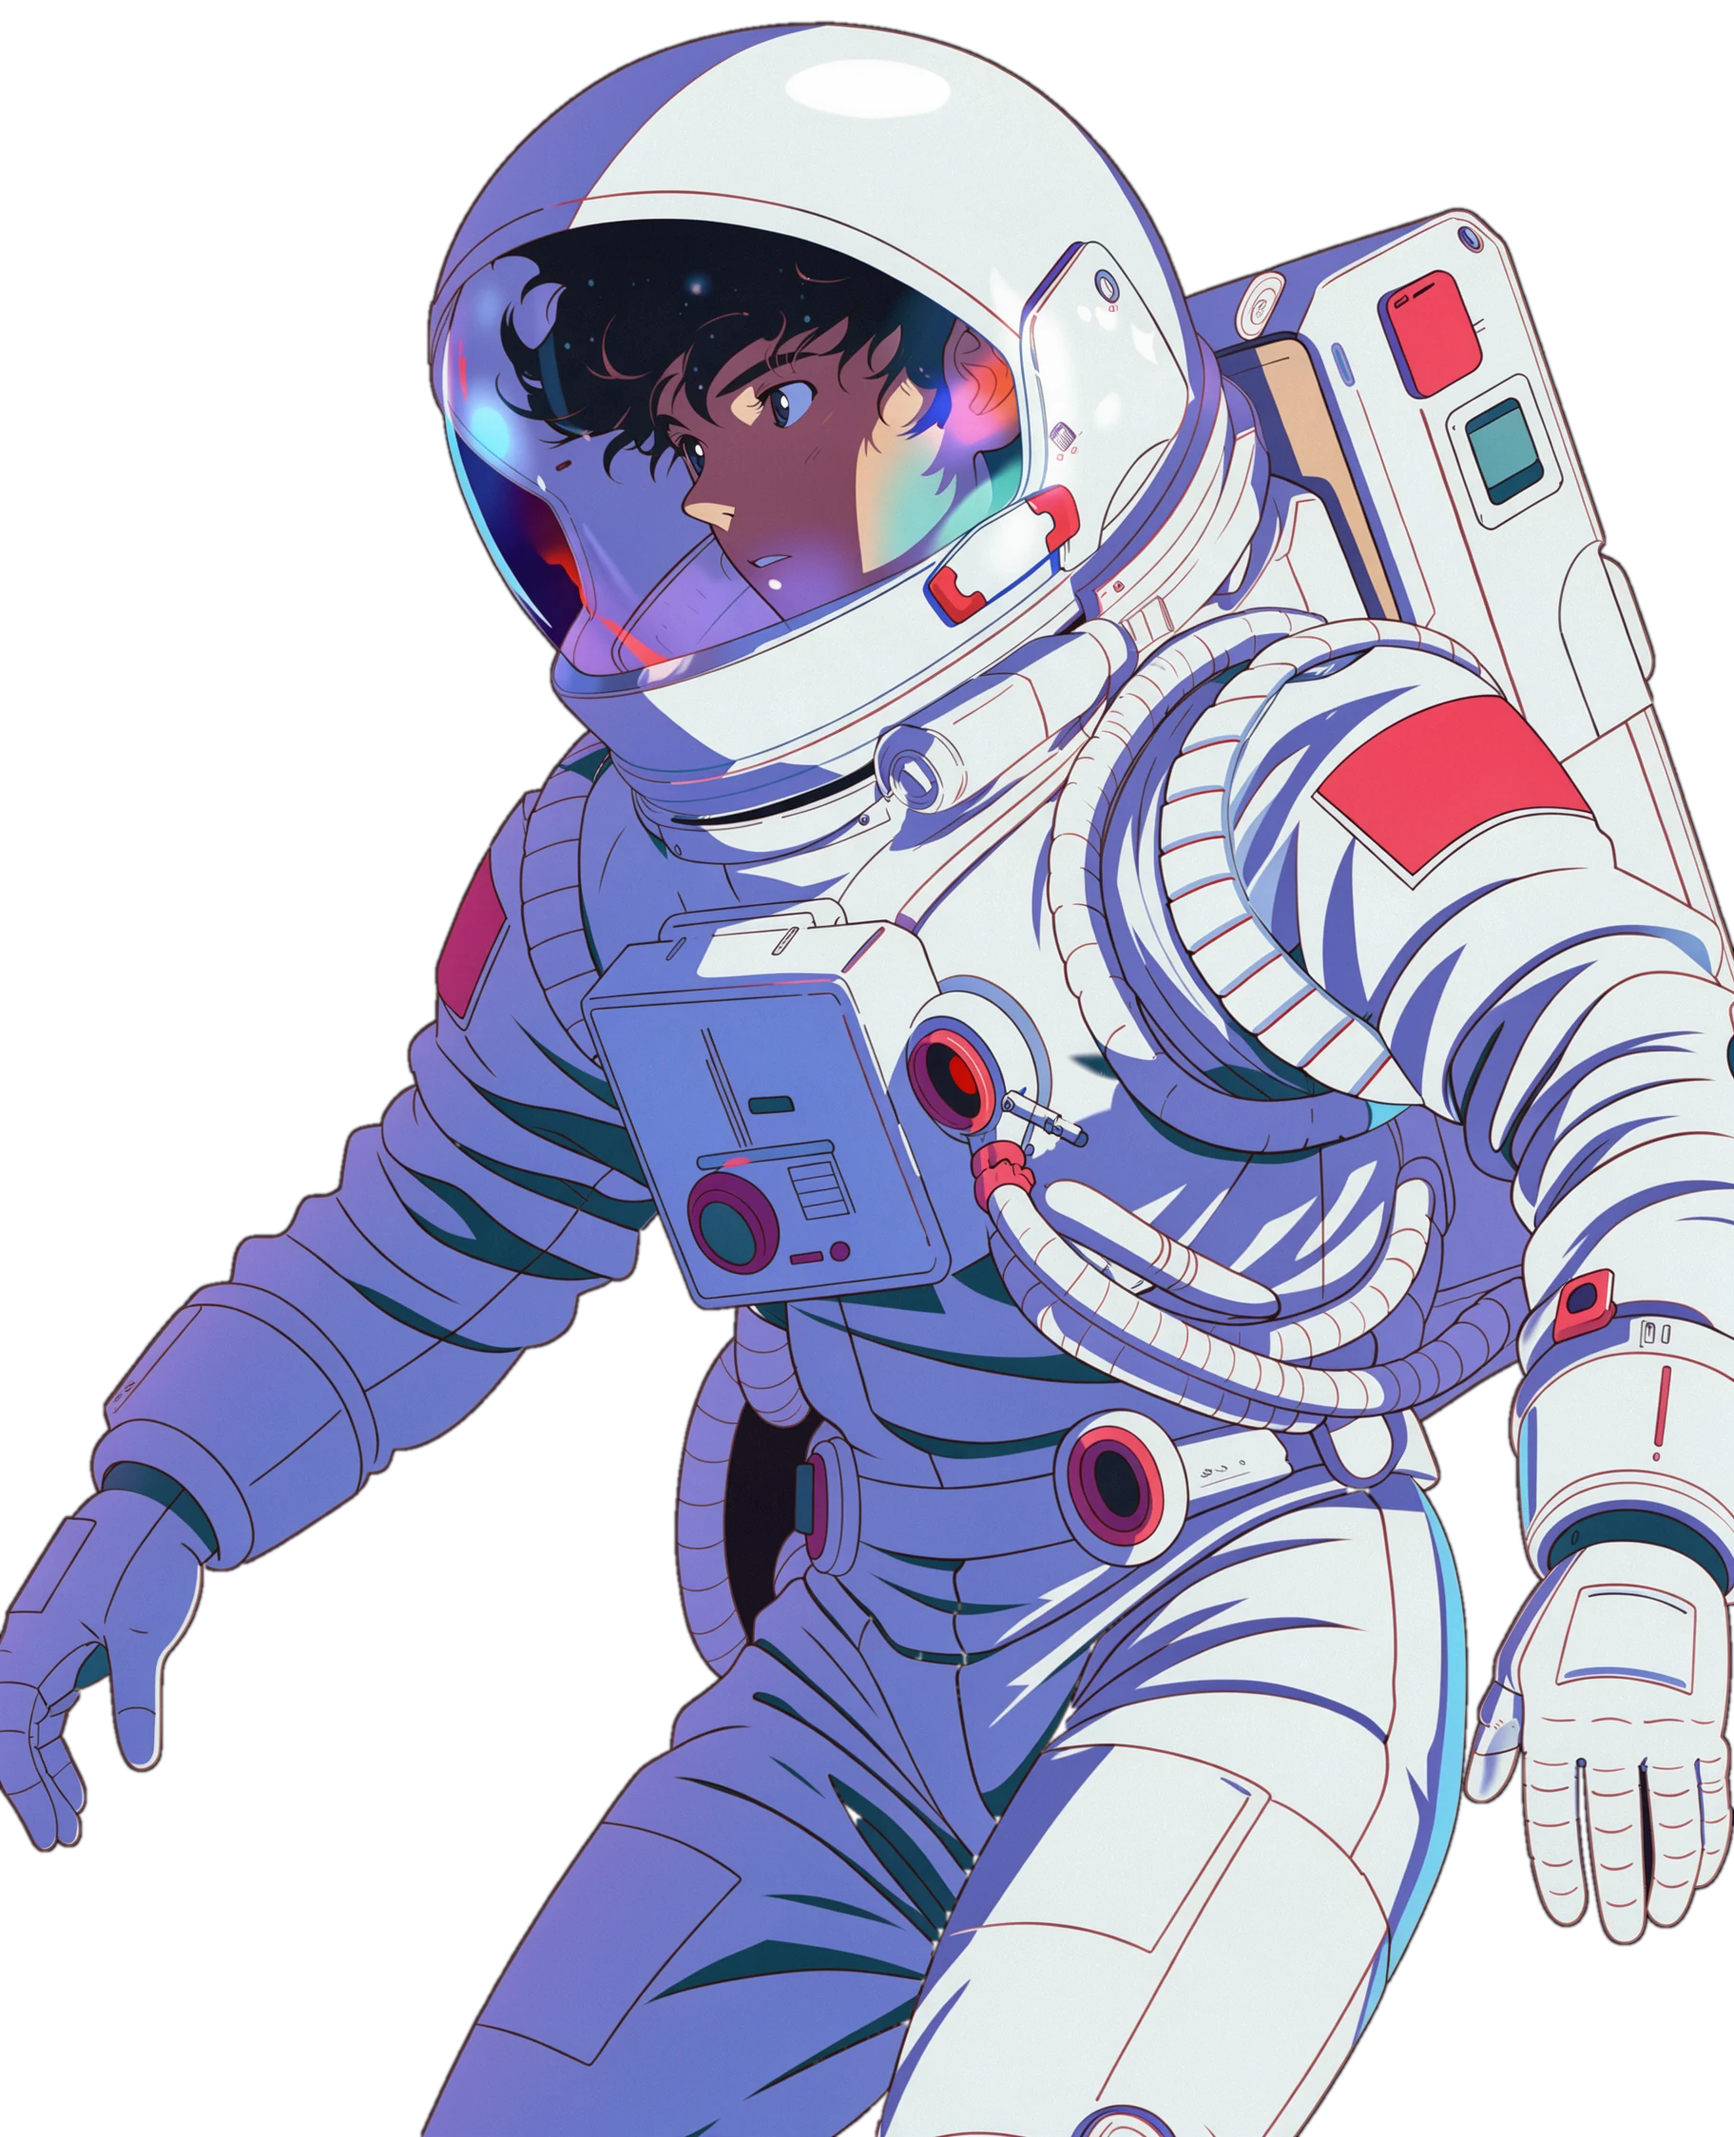
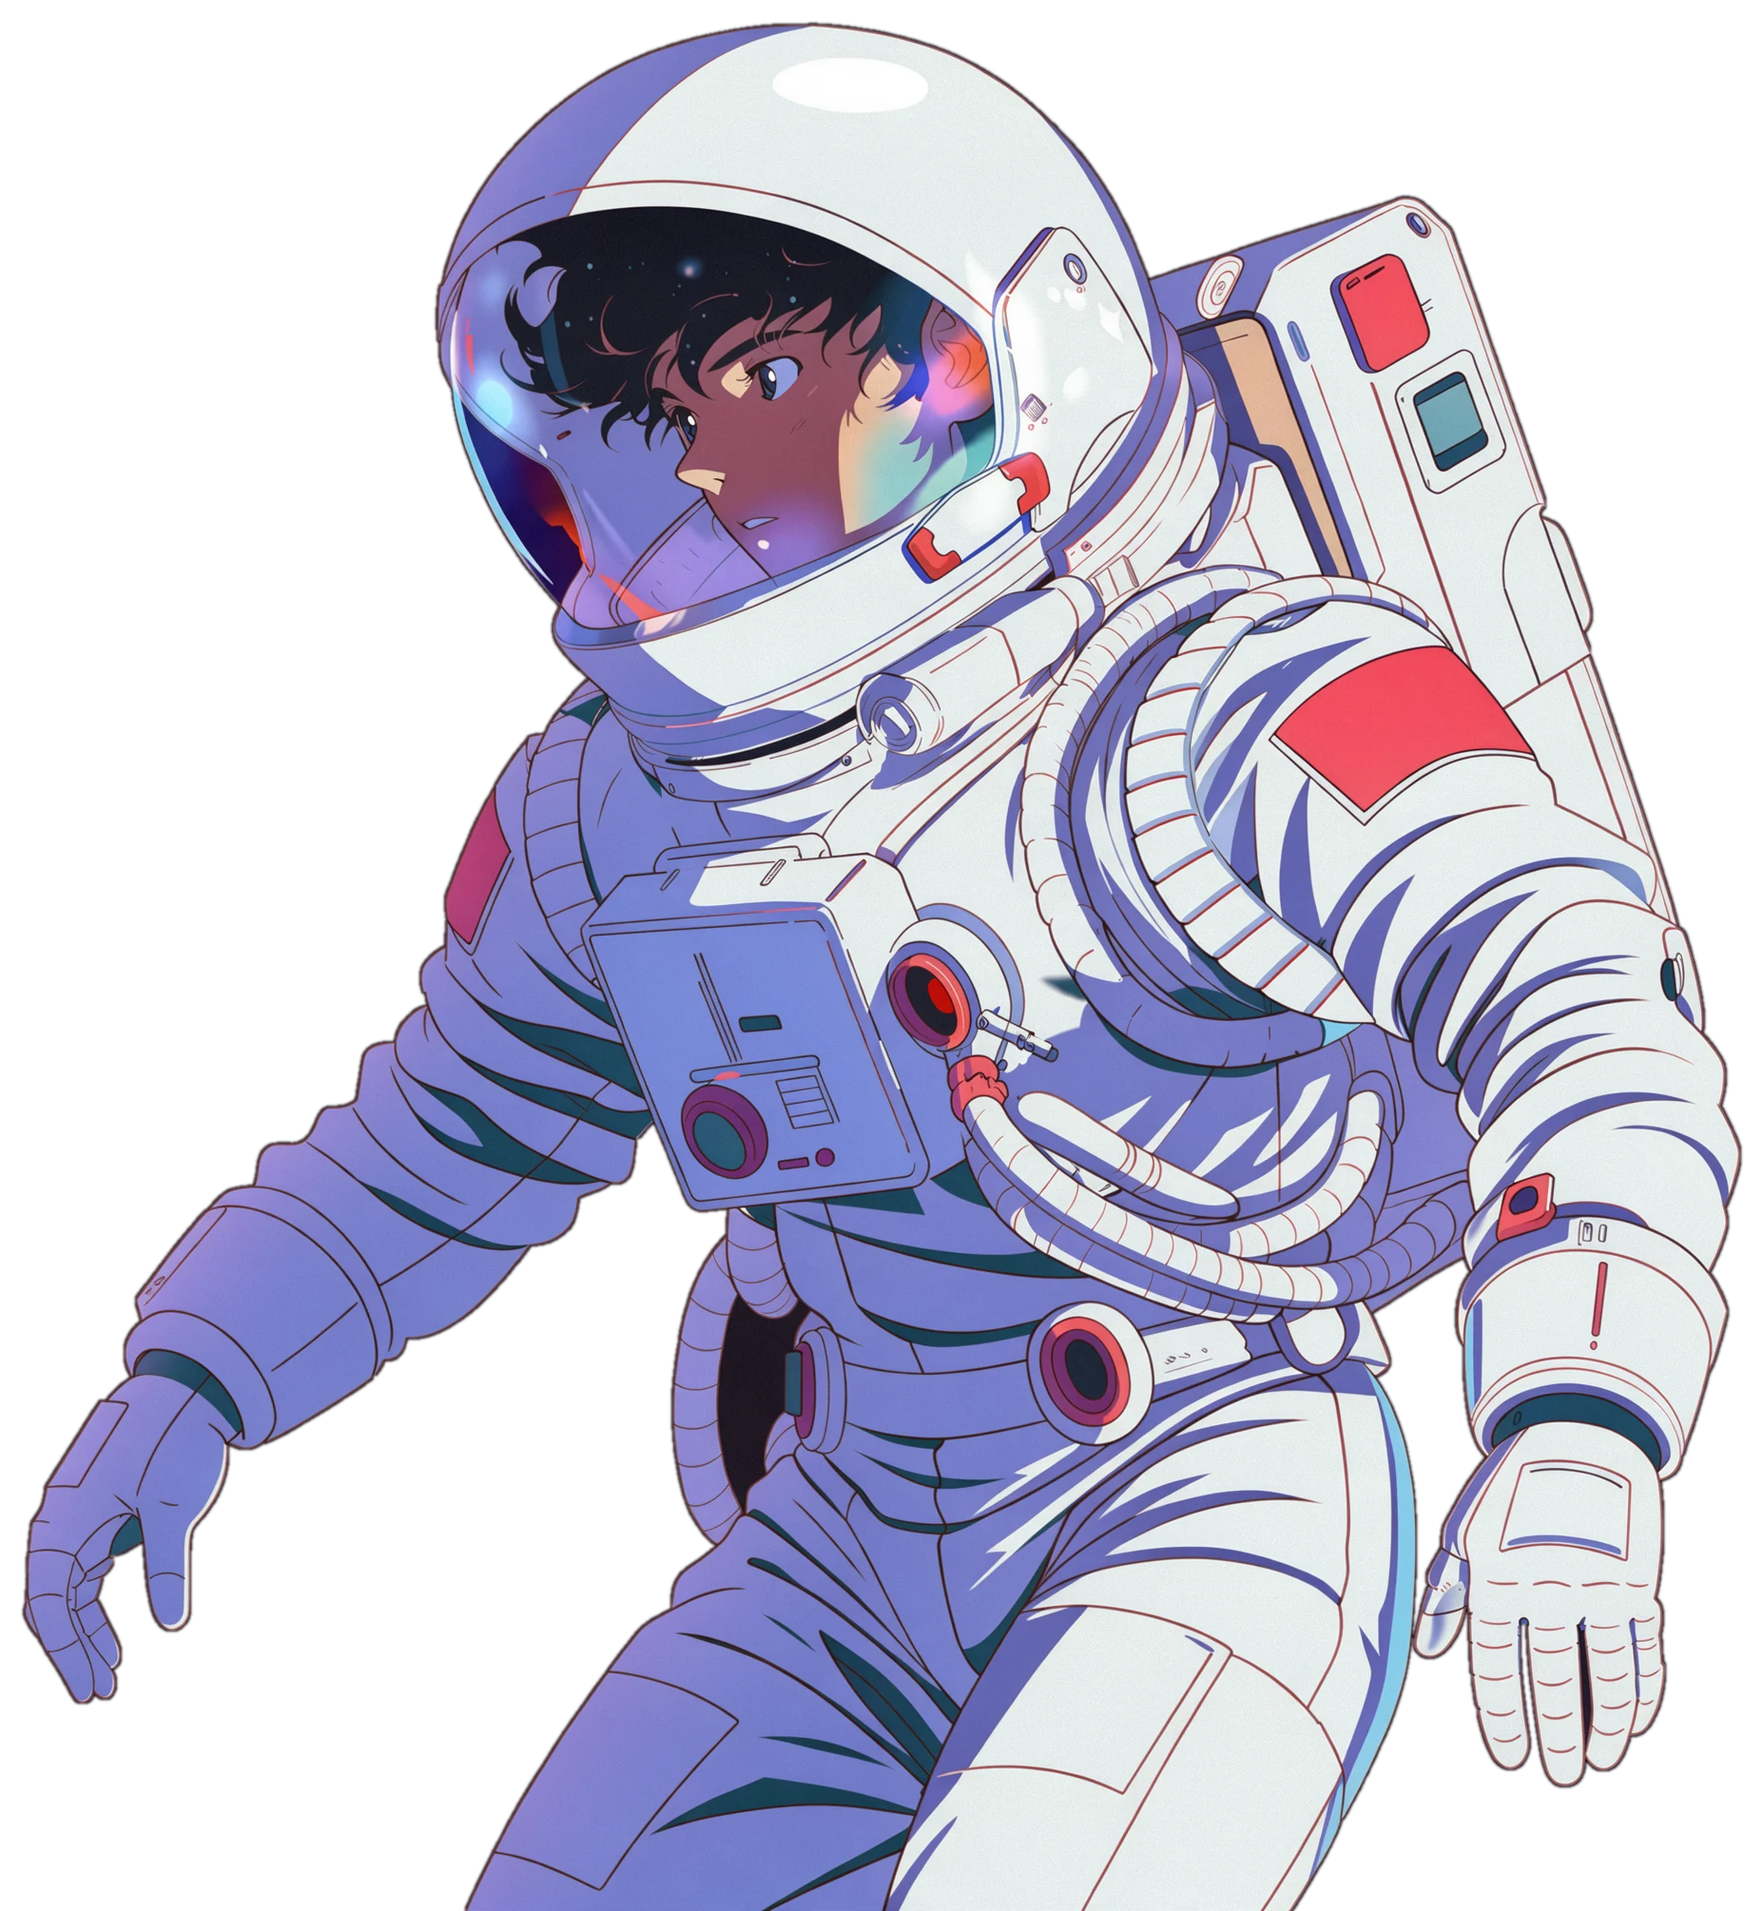
Story: one-paragraph copy that wraps naturally; bigger text; astronaut nearer the centre, regenerated with both hands inside the frame

diff --git a/app/src/components/story.tsx b/app/src/components/story.tsx
@@ -63,9 +63,9 @@ const SMALL_PAUSE = { ',': 130, ' ': 28, '\n': 150 } as Record<string, number>
 
 const TEXT_CLASS = cn(
   // Phones: centred over the scene. Desktop: on the left, leaving the right side to the astronaut.
-  'text-center lg:max-w-[62%] lg:text-left font-sans font-normal text-white [text-wrap:balance] lg:[text-wrap:wrap]',
-  'text-[22px] leading-[1.35] tracking-[-0.015em]',
-  'md:text-[clamp(24px,2.2vw,40px)] md:leading-[1.3] md:tracking-[-0.025em]',
+  'text-center lg:max-w-[54%] lg:text-left font-sans font-normal text-white [text-wrap:pretty]',
+  'text-[24px] leading-[1.35] tracking-[-0.015em]',
+  'md:text-[clamp(28px,2.55vw,46px)] md:leading-[1.3] md:tracking-[-0.025em]',
 )
 
 function renderUnits(units: Unit[], limit: number, caret: ReactNode): ReactNode[] {
@@ -201,7 +201,7 @@ export function Story() {
           {/* Soft dark wash on the text side so the type stays readable. */}
           <div className="absolute inset-0 bg-[radial-gradient(65%_75%_at_20%_50%,rgb(4_4_18/0.4),transparent_72%)] max-lg:bg-[radial-gradient(90%_60%_at_50%_42%,rgb(0_0_0/0.55),transparent_75%)]" />
           {/* Waist-up, bottom-right, sitting a little above the text's middle; the top of the legs shows at the bottom edge. */}
-          <div className="absolute -bottom-[10svh] -right-[12vw] h-[46svh] lg:-bottom-[5svh] lg:-right-[1vw] lg:h-[90svh]">
+          <div className="absolute -bottom-[14svh] -right-[10vw] h-[44svh] lg:-bottom-[4svh] lg:right-[5vw] lg:h-[86svh]">
           <motion.div
             className="h-full"
             style={{ y: astroY }}
@@ -220,17 +220,17 @@ export function Story() {
             >
               {/* Visor glow, breathing behind the helmet. */}
               <motion.div
-                className="absolute left-[20%] top-[2%] aspect-square w-[50%] rounded-full bg-[radial-gradient(circle,rgb(91_134_255/0.45),transparent_65%)] blur-2xl"
+                className="absolute left-[22%] top-[0%] aspect-square w-[46%] rounded-full bg-[radial-gradient(circle,rgb(91_134_255/0.45),transparent_65%)] blur-2xl"
                 animate={reduce ? undefined : { opacity: [0.5, 0.9, 0.5], scale: [0.95, 1.05, 0.95] }}
                 transition={{ duration: 5, repeat: Infinity, ease: 'easeInOut' }}
               />
               <img
                 src="/images/story/astronaut-waist.webp"
-                srcSet="/images/story/astronaut-waist-900.webp 900w, /images/story/astronaut-waist.webp 1824w"
-                sizes="(min-width: 1024px) 73svh, 37svh"
+                srcSet="/images/story/astronaut-waist-900.webp 900w, /images/story/astronaut-waist.webp 1855w"
+                sizes="(min-width: 1024px) 80svh, 43svh"
                 alt=""
-                width={1824}
-                height={2248}
+                width={1855}
+                height={2010}
                 className="relative block h-full w-auto max-w-none select-none"
                 draggable={false}
               />

diff --git a/app/src/data.ts b/app/src/data.ts
@@ -7,19 +7,15 @@ export type StoryStyle = 'b' | 'h' | 's' | 'a' | 'c'
 /** `pause` holds the typing for that many milliseconds at that point. */
 export type StorySeg = { t: string; s?: StoryStyle } | { br: true } | { pause: number }
 
-/** The intro typed on the first screen. One pause, after "Hi,". */
+/** The intro typed on the first screen: one paragraph that wraps naturally. One pause, after "Hi,". */
 export const STORY: StorySeg[] = [
   { t: 'Hi,' },
   { pause: 900 },
   { t: ' I’m ' },
   { t: 'Bruno Paradas,', s: 'b' },
-  { t: ' Design Engineer,' },
-  { br: true },
-  { t: 'I ' },
+  { t: ' Design Engineer. I ' },
   { t: 'design, build, and ship', s: 'h' },
-  { t: ' products and design\u00A0systems.' }, // no break inside "design systems"
-  { br: true },
-  { t: 'Currently working at ' },
+  { t: ' products and design\u00A0systems. Currently working at ' },
   { t: 'Buzzfeed', s: 'h' },
   { t: '.' },
 ]
